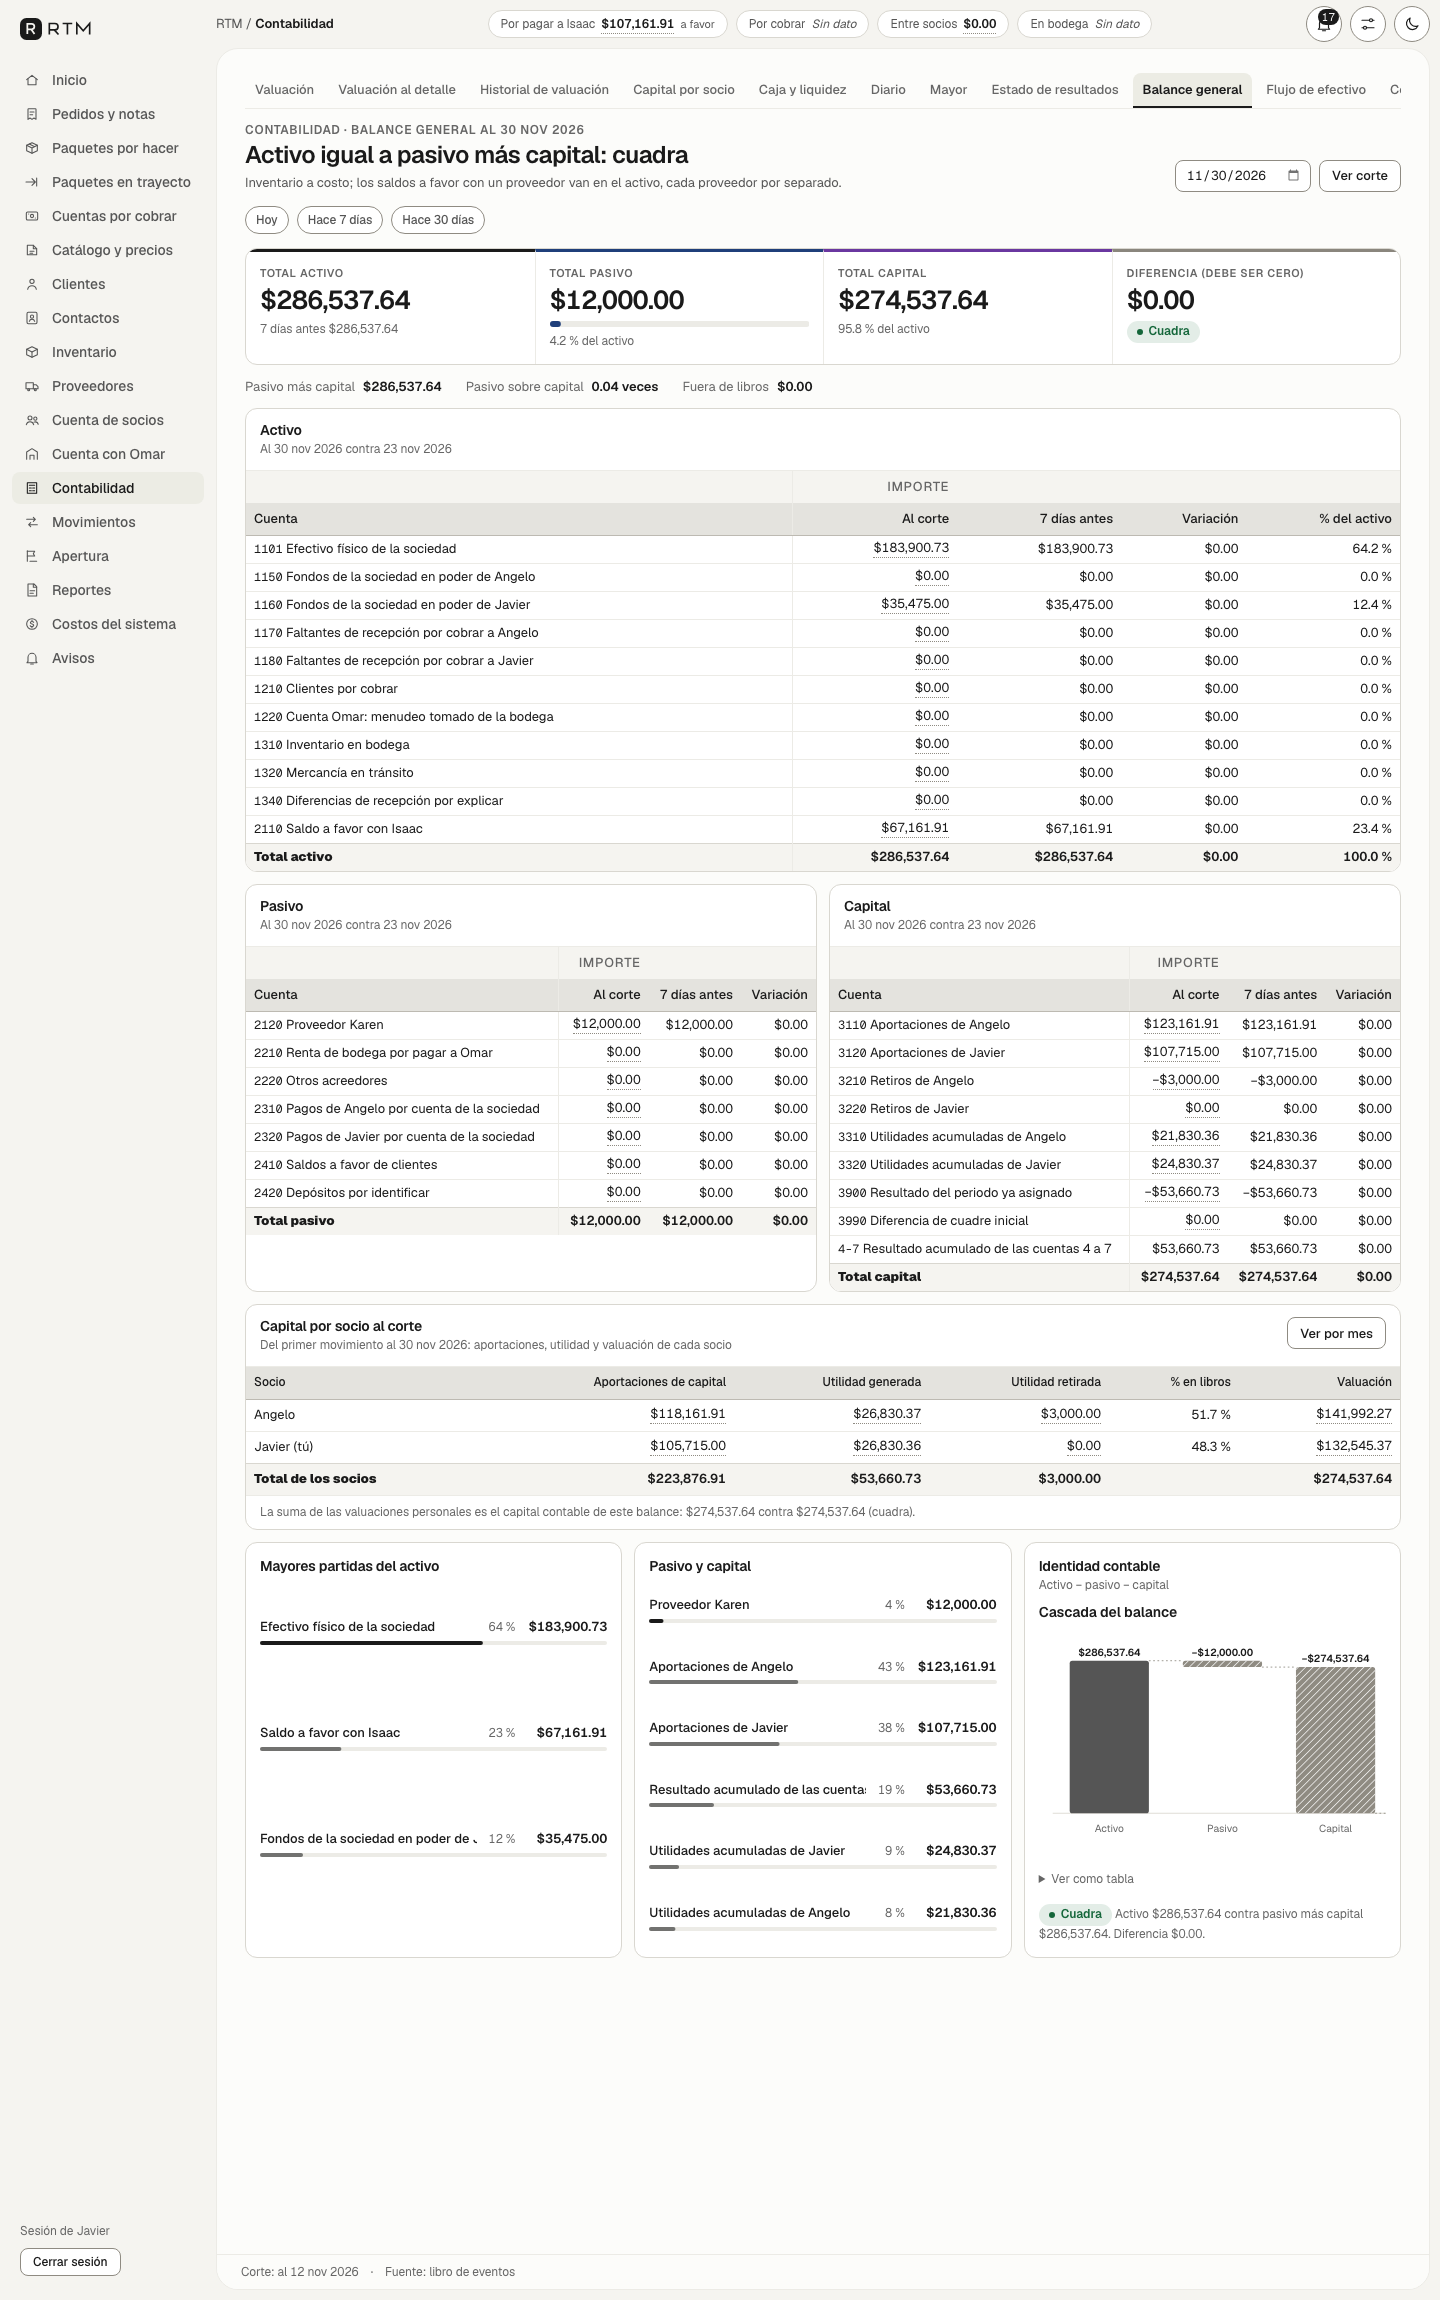
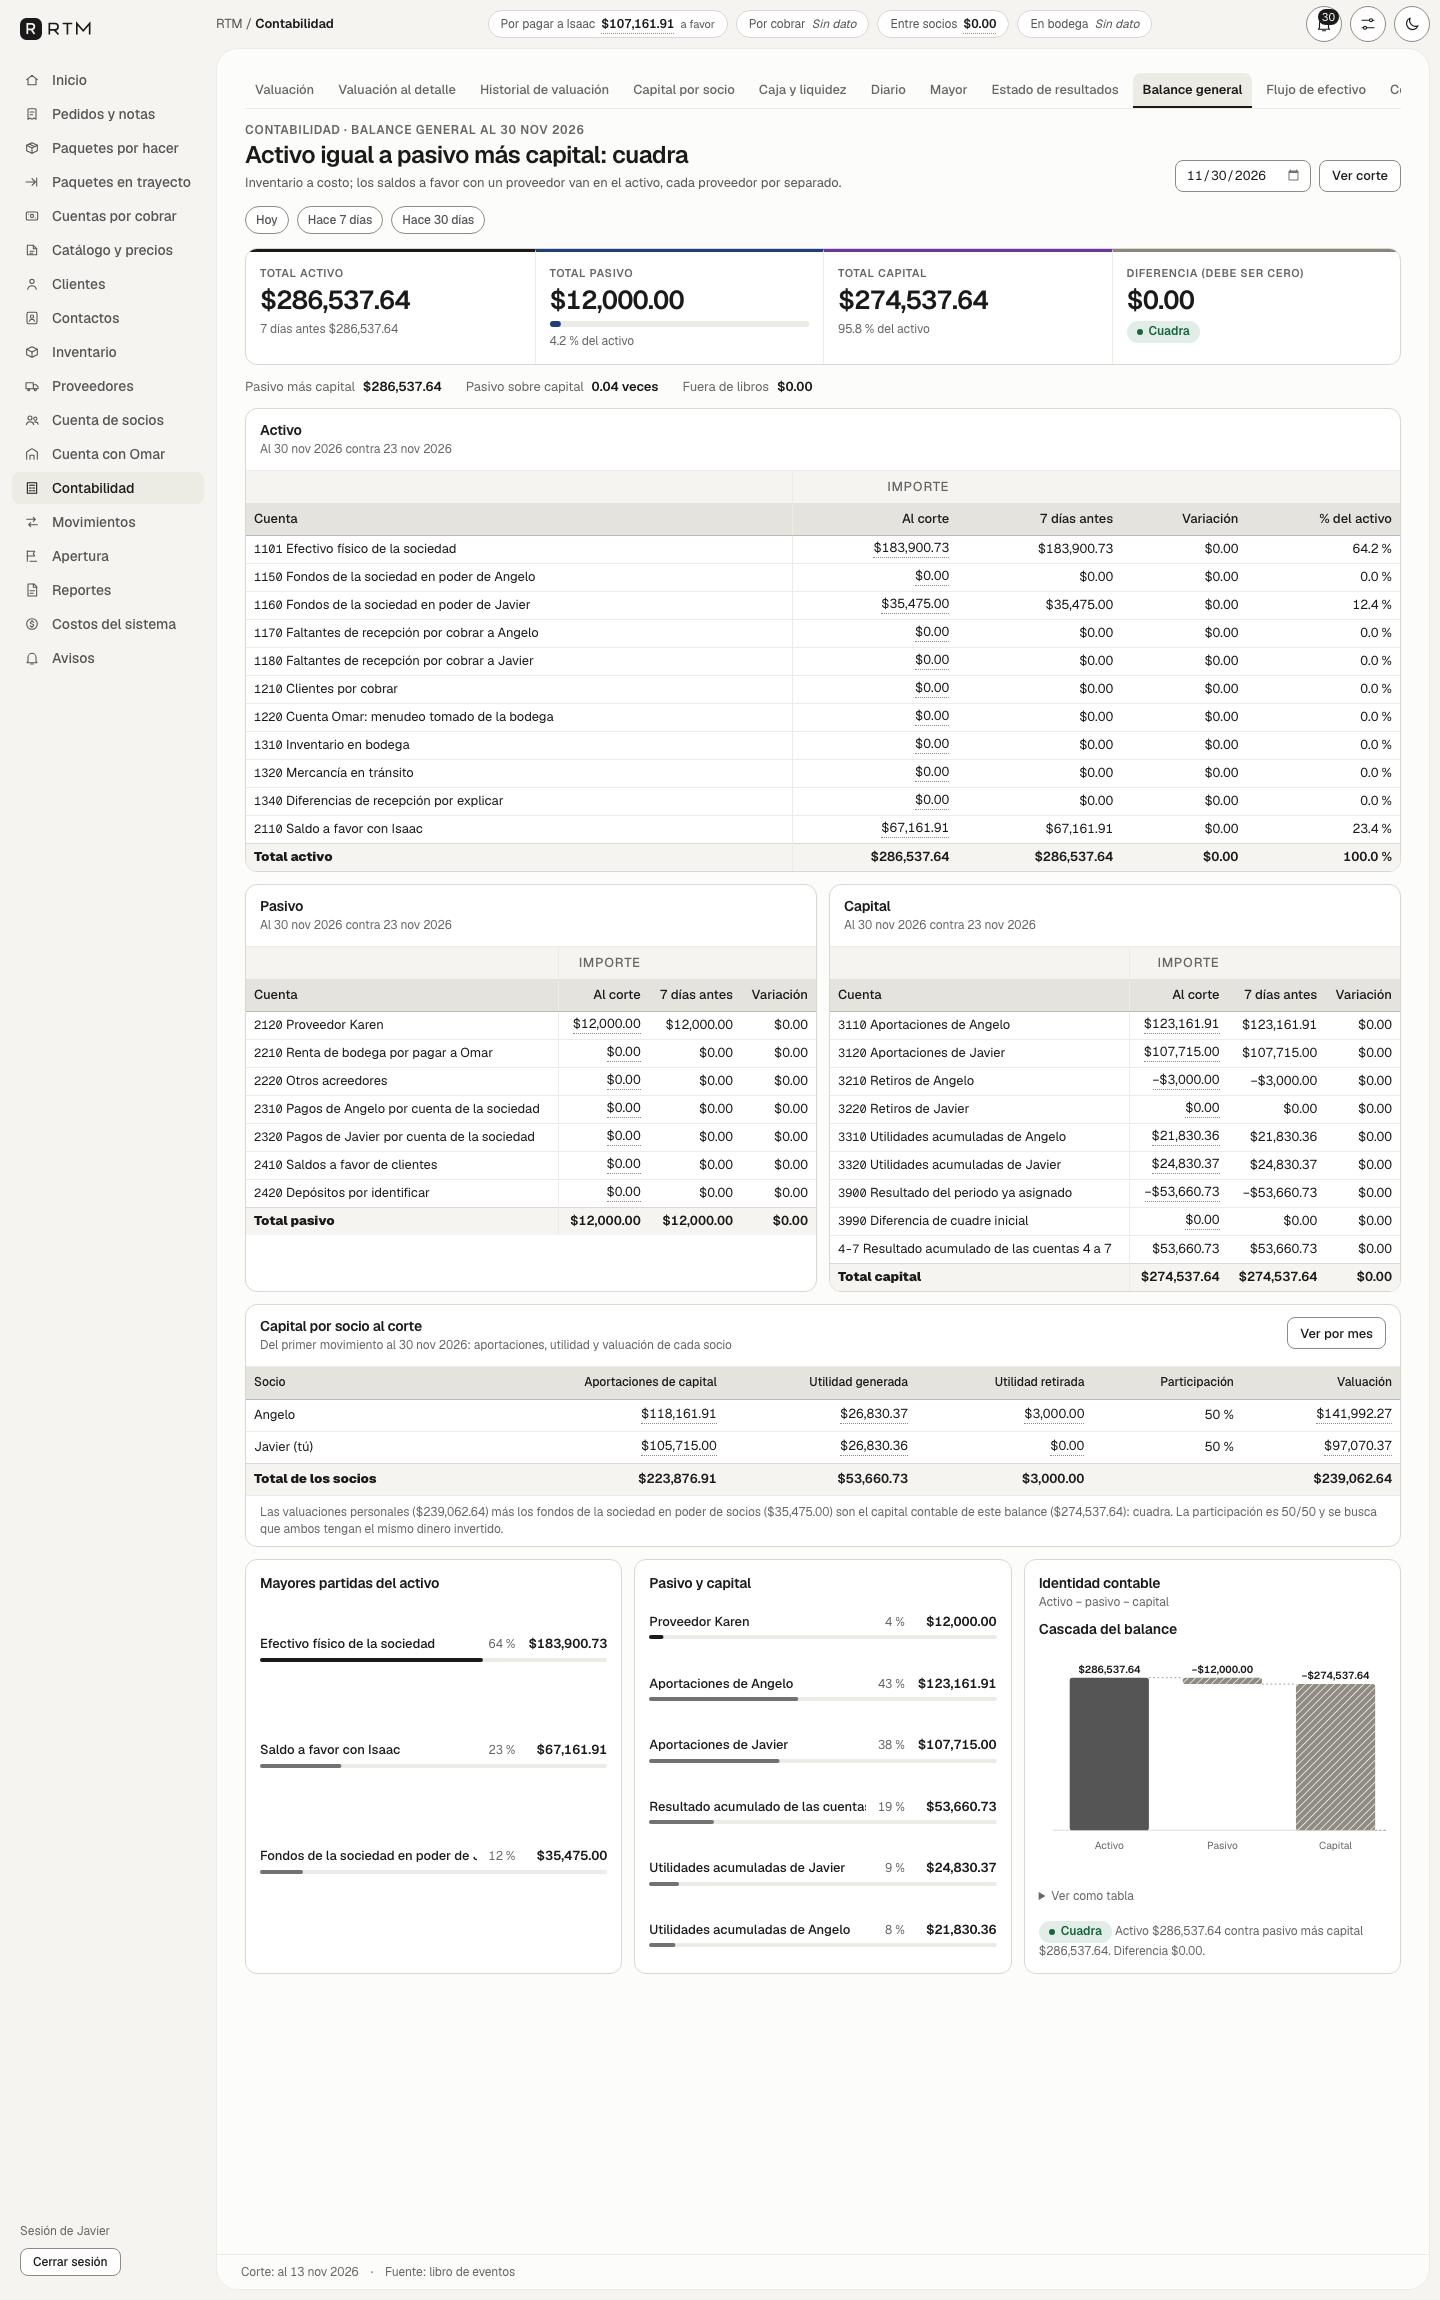
feat(capital): fondos y proveedores a todo el ancho; capturas regeneradas con el modelo de justicia en el dinero invertido

diff --git a/src/app/(socio)/contabilidad/capital/page.tsx b/src/app/(socio)/contabilidad/capital/page.tsx
@@ -115,7 +115,7 @@ export default async function PaginaCapital({ searchParams }: { searchParams: Pr
               <p className="rtm-capital-nota">Reinvertida = acta de corte más lo respaldado por utilidad en saldo a favor con proveedores (calculado: lo que excede la utilidad es anticipo, no utilidad{a.anticipo_proveedor_cent > 0n ? `; hoy ${m(a.anticipo_proveedor_cent)}` : ''}).</p>
             </Tarjeta>
 
-            <Rejilla dividir="8-4" alinear="inicio">
+            <Rejilla dividir="12" alinear="inicio">
               <Tarjeta plana className="rtm-a2-tabla" titulo="Fondos de la sociedad en poder de socios" descripcion={`Al ${fecha(fin.fin)}: cada renglón con su motivo`}>
                 {hayFondos ? (
                   <DataTable etiqueta="Fondos de la sociedad en poder de socios" clave={(x) => x.clave} filas={fondosFilas} densidad="densa" plana
